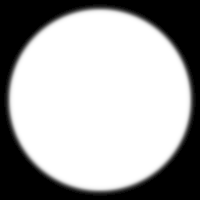
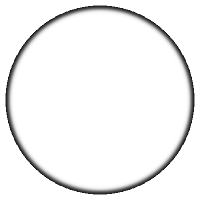
need to change so can sellect planets

diff --git a/www/render_stars.js b/www/render_stars.js
@@ -10,7 +10,7 @@ const TERAMETER = 0.0001057;
 // -- these are hidden unless the system is selected
 // intersteller objects are added directly to the scene
 
-var scene, renderer, camera, intersect, camera_lookat, camera_flyto, fixed_camera, system, systems, suns;
+var scene, renderer, camera, intersect, camera_lookat, camera_flyto, fixed_camera, system, systems, suns, system_name;
 
 init();
 
@@ -50,7 +50,8 @@ function onSubmit() {
             if(json_map['render_stars']['suns'].length > 0) {
                 // load materials
                 var alpha_map = new THREE.TextureLoader().load( "/alphamap-circle.png" )
-                var texture_sun = new THREE.TextureLoader().load( "/texture-sun.png" )
+                var texture_sun = new THREE.TextureLoader().load( "/alphamap-circle.png" )
+                //var texture_sun = new THREE.TextureLoader().load( "/texture-sun.png" )
                 suns = json_map['render_stars']['suns'];
                 var planets = json_map['render_stars']['planets'];
                 // reusable geometry
@@ -117,20 +118,21 @@ function onSubmit() {
                 var material = new THREE.ShaderMaterial( {
 					uniforms: {
                         color: { value: new THREE.Color( 0xffffff ) },
+                        transparent: { value: true },
                         pointTexture: { value: texture_sun }
                         
 					},
 					vertexShader: document.getElementById( 'vertexshader' ).textContent,
 					fragmentShader: document.getElementById( 'fragmentshader' ).textContent,
-                    alphaMap: alpha_map,
                     alphaTest: 0.9
                 } );
                 systems = new THREE.Points( geometry, material );
-                console.log(systems);
                 scene.add(systems);
                 /**/
                 // Zoom to home world
+                system_name = "The"+suns[0].name.replaceAll(/\'.*/g, "")+" system";
                 select_object(0, true); // Replace with with the home system's sun
+                console.log(scene);
                 // Render
                 window.setTimeout(render, 1000);
             }
@@ -146,10 +148,12 @@ function onWheel(event) {
     var distance = camera_flyto.distanceTo(pos);
     // zoom out
     if(event.deltaY > 0) {
+        console.log((distance + Math.min(distance * 0.5, 50)))
         offset.setLength(distance + Math.min(distance * 0.5, 50));
     // zoom in
     } else {
-        offset.setLength(Math.max(distance / 1.25, TERAMETER / 10));
+        console.log(Math.max(distance - Math.max(distance / 1.2), TERAMETER / 10))
+        offset.setLength(Math.max(distance / 1.2, TERAMETER / 10));
     }
     camera_flyto = pos.clone().add(offset);
     window.requestAnimationFrame(render);
@@ -164,22 +168,22 @@ function onKeyPress(event) {
     // up
     if(event.keyCode == 38) {
         rotateDirection = new THREE.Vector3(0, -1, 0);
-        rotateCamera(rotateDirection);
+        rotateCamera(rotateDirection, apos);
     }
     // down
     else if(event.keyCode == 40) {
         rotateDirection = new THREE.Vector3(0, 1, 0);
-        rotateCamera(rotateDirection);
+        rotateCamera(rotateDirection, apos);
     }
     // left
     else if(event.keyCode == 37) {
         rotateDirection = new THREE.Vector3(1, 0, 0);
-        rotateCamera(rotateDirection);
+        rotateCamera(rotateDirection, apos);
     }
     // right
     else if(event.keyCode == 39) {
         rotateDirection = new THREE.Vector3(-1, 0, 0);
-        rotateCamera(rotateDirection);
+        rotateCamera(rotateDirection, apos);
     }
     // reset
     else if(event.key == "r") {
@@ -189,17 +193,17 @@ function onKeyPress(event) {
 }
 
 // Rotate on comand
-function rotateCamera(moveDirection) {
+function rotateCamera(moveDirection, selected_pos) {
 	var axis = new THREE.Vector3(),
 		quaternion = new THREE.Quaternion(),
 		eyeDirection = new THREE.Vector3(),
 		objectUpDirection = new THREE.Vector3(),
 		objectSidewaysDirection = new THREE.Vector3(),
-		_eye = new THREE.Vector3().subVectors( camera.position, selected.position ),
+		_eye = new THREE.Vector3().subVectors( camera.position, selected_pos ),
 		angle;
 	angle = moveDirection.length();
 	if ( angle ) {
-		_eye.copy( camera.position ).sub( selected.position );
+		_eye.copy( camera.position ).sub( selected_pos );
 		eyeDirection.copy( _eye ).normalize();
 		objectUpDirection.copy( camera.up ).normalize();
 		objectSidewaysDirection.crossVectors( objectUpDirection, eyeDirection ).normalize();
@@ -212,7 +216,7 @@ function rotateCamera(moveDirection) {
         _eye.applyQuaternion( quaternion );
         camera.up.applyQuaternion( quaternion );
         moveDirection.copy( _eye ).normalize();
-        camera_flyto.set((_eye.x * moveDirection.length()) + selected.position.x, (_eye.y * moveDirection.length()) + selected.position.y, (_eye.z * moveDirection.length()) + selected.position.z);
+        camera_flyto.set((_eye.x * moveDirection.length()) + selected_pos.x, (_eye.y * moveDirection.length()) + selected_pos.y, (_eye.z * moveDirection.length()) + selected_pos.z);
         camera.lookAt(camera_lookat);
     }
 }
@@ -228,17 +232,24 @@ function onClick(event) {
     raycaster.params.Points.threshold = TERAMETER / 10;
     raycaster.near = 0;
     raycaster.far = 10;
-    var intersects = raycaster.intersectObject( systems );
-    if(intersects.length > 0) {
-        select_object(intersects[0].index, false)
+    var intersectss = raycaster.intersectObjects( scene.children, true );
+    console.log(intersectss.length);
+    if(intersectss.length > 0) {
+        var intersects = raycaster.intersectObject( scene.children[intersectss[0].index] )
+        if(intersects.length > 0) {
+            select_object(intersects[0].index, false)
+        }
     } else {
         raycaster.params.Points.threshold = 10;
         raycaster.near = 10;
         raycaster.far = 10000;
-        intersects = raycaster.intersectObject( systems );
-        console.log(intersects.length);
-        if(intersects.length > 0) {
-            select_object(intersects[0].index, event.shiftKey);
+        var intersectss = raycaster.intersectObjects( scene.children, true );
+        console.log(intersectss.length);
+        if(intersectss.length > 0) {
+            var intersects = raycaster.intersectObject( scene.children[intersectss[0].index] )
+            if(intersects.length > 0) {
+                select_object(intersects[0].index, event.shiftKey);
+            }
         }
     }
     window.requestAnimationFrame(render);
@@ -261,29 +272,44 @@ function select_object(cect, flyto) {
 
 // Gets all the objects in a system or at a point
 function get_system() {
-    system = new THREE.Group();
+    if(system_name === "The "+suns[intersect].name.replaceAll(/\'.*/g, "")+" system"){
+        return
+    }
+    system_name = "The "+suns[intersect].name.replaceAll(/\'.*/g, "")+" system";
+    console.log(system_name)
     var geometry = new THREE.BufferGeometry();
-    var alpha_map = new THREE.TextureLoader().load( "/alphamap-circle.png" )
     var texture_planet = new THREE.TextureLoader().load( "/texture-planet.png" )
-    //if(name.startsWith("System/")) {
-        // Make dummy planets
-        var planet_colors = ["#990000", "#009900", "#000099", "#999999"];
-        for(var j = 0; j < planet_colors.length; j++) {
-            var material = new THREE.PointsMaterial( { 
-                color: new THREE.Color(planet_colors[j]),
-                map: texture_planet,
-                alphaMap: alpha_map,
-                size: (Math.random() * 100 + 200) * TERAMETER / 10000,
-                sizeAttenuation: true,
-                transparent: true,
-                alphaTest: 0.5
-            } );
-            var point = new THREE.Points(geometry, material);
-            point.position.set(suns[intersect].x + TERAMETER * Math.random() * 2 - TERAMETER, suns[intersect].y + TERAMETER * Math.random() * 2 - TERAMETER, suns[intersect].z);
-            point.name = "Planet/" + suns[intersect].name.replaceAll(/\'.*/g, "") + " " + j;
-            system.add(point);
-        }
-    //}
+    // Make dummy planets
+    var planet_colors = ["#990000", "#009900", "#000099", "#999999"];
+    var positions = new Float32Array( planet_colors.length *3 );
+	var colors = new Float32Array( planet_colors.length *3 );
+    var sizes = new Float32Array( planet_colors.length );
+    for(var i = 0; i < planet_colors.length; i++) {
+        var color = new THREE.Color( planet_colors[i] );
+        sizes[i] = (Math.random() * 100 + 200) * TERAMETER / 10000;
+        positions[ i * 3 ] = suns[intersect].x + TERAMETER * Math.random() * 2 - TERAMETER;
+        positions[ i * 3 + 1 ] = suns[intersect].y + TERAMETER * Math.random() * 2 - TERAMETER;
+        positions[ i * 3 + 2 ] = suns[intersect].z;
+        colors[ i * 3 ] = color.r;
+        colors[ i * 3 + 1 ] = color.g;
+        colors[ i * 3 + 2 ] = color.b;
+    }
+    geometry.setAttribute( 'position', new THREE.BufferAttribute( positions, 3 ) );
+	geometry.setAttribute( 'customColor', new THREE.BufferAttribute( colors, 3 ) );
+	geometry.setAttribute( 'size', new THREE.BufferAttribute( sizes, 1 ) );
+    var material = new THREE.ShaderMaterial( {
+		uniforms: {
+            color: { value: new THREE.Color( 0xffffff ) },
+            transparent: { value: true },
+            pointTexture: { value: texture_planet }
+        },
+		vertexShader: document.getElementById( 'vertexshader' ).textContent,
+		fragmentShader: document.getElementById( 'fragmentshader' ).textContent,
+        alphaTest: 0.9
+    } );
+    scene.remove(system)
+    system = new THREE.Points( geometry, material );
+    scene.add(system);
 }
 
 // Zoom to the clicked object
